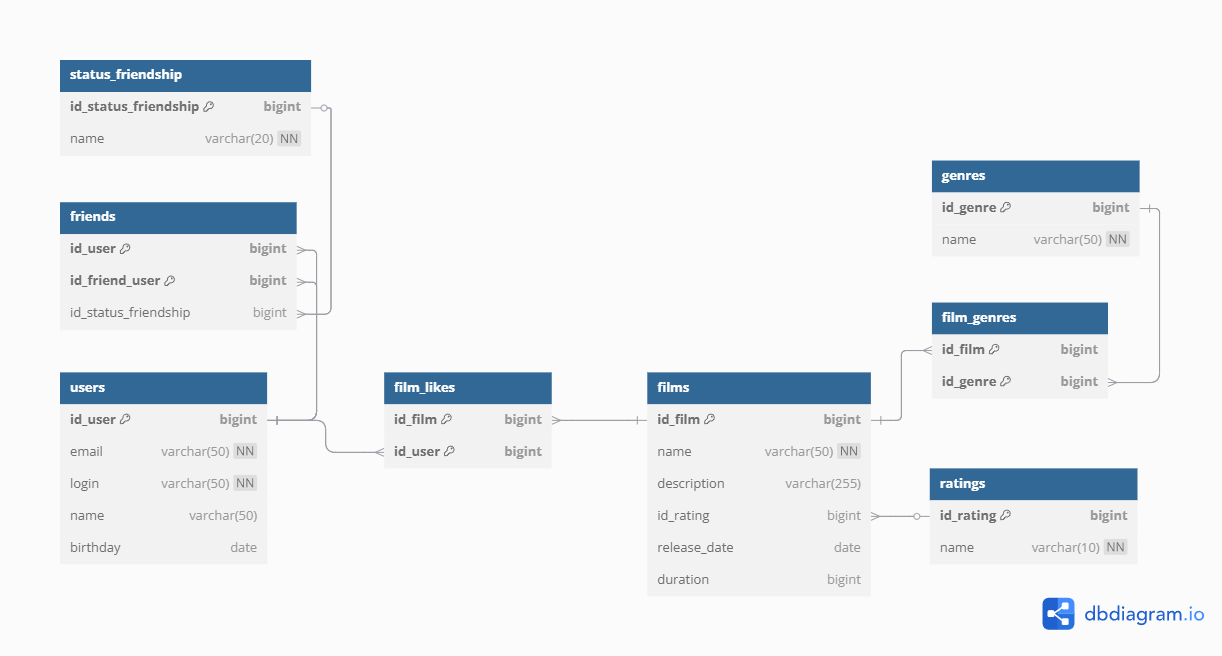
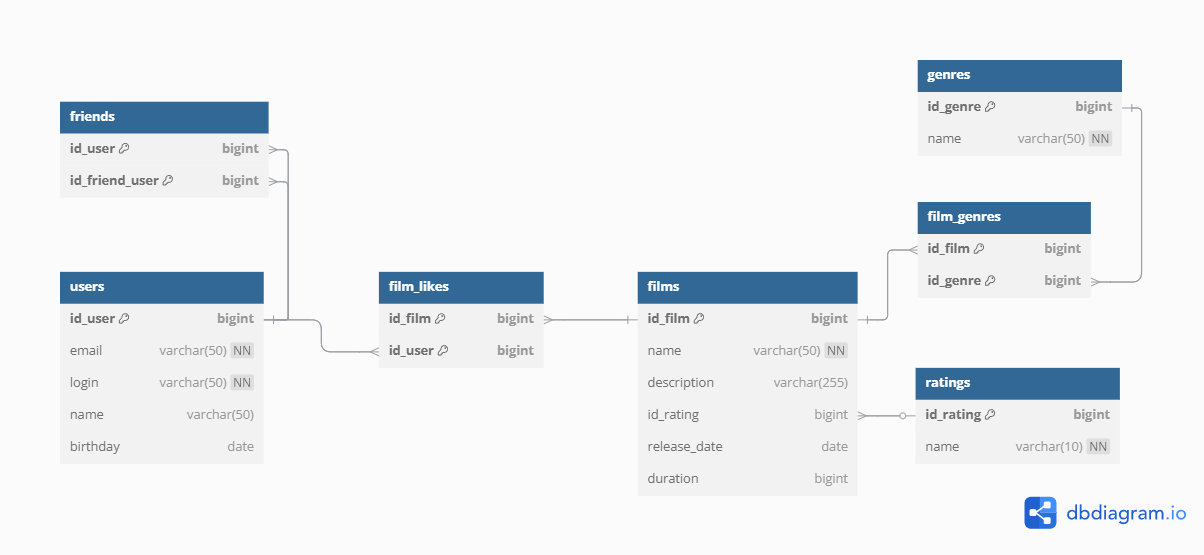
Скорректировать схему

diff --git a/README.md b/README.md
@@ -52,10 +52,3 @@ LEFT JOIN film_likes fl ON f.id_film = fl.id_film<br>
 GROUP BY f.id_film<br>
 ORDER BY like_count DESC<br>
 LIMIT ***;
-
-**-- Вывод статуса дружбы пользователей**<br>
-SELECT sf.name AS friendship_status<br>
-FROM friends f<br>
-JOIN status_friendship sf ON f.id_status_friendship = sf.id_status_friendship<br>
-WHERE f.id_user = ***<br>
-&nbsp;&nbsp;&nbsp;&nbsp;&nbsp;&nbsp;&nbsp;&nbsp;&nbsp;&nbsp;&nbsp;&nbsp;AND f.id_friend_user = ***** 
